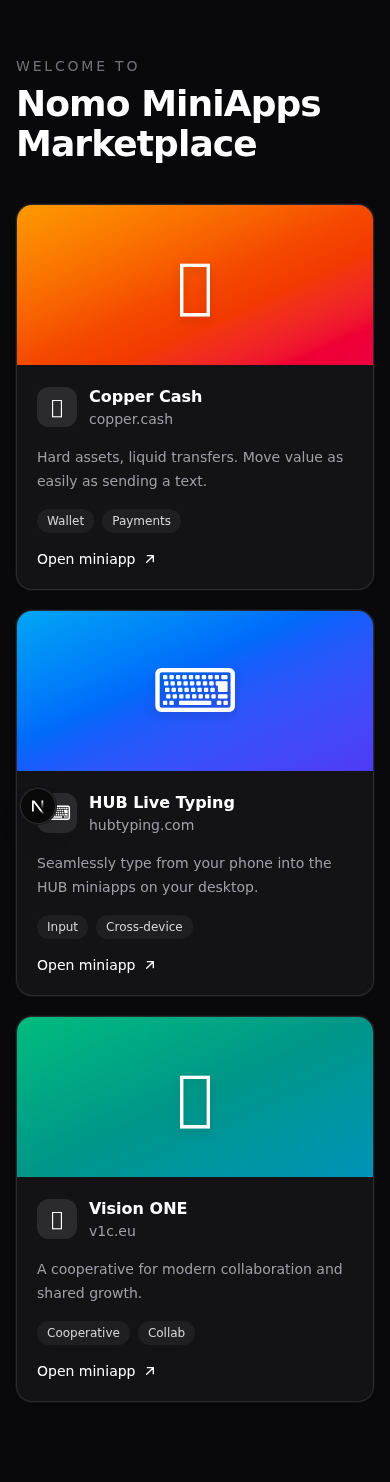
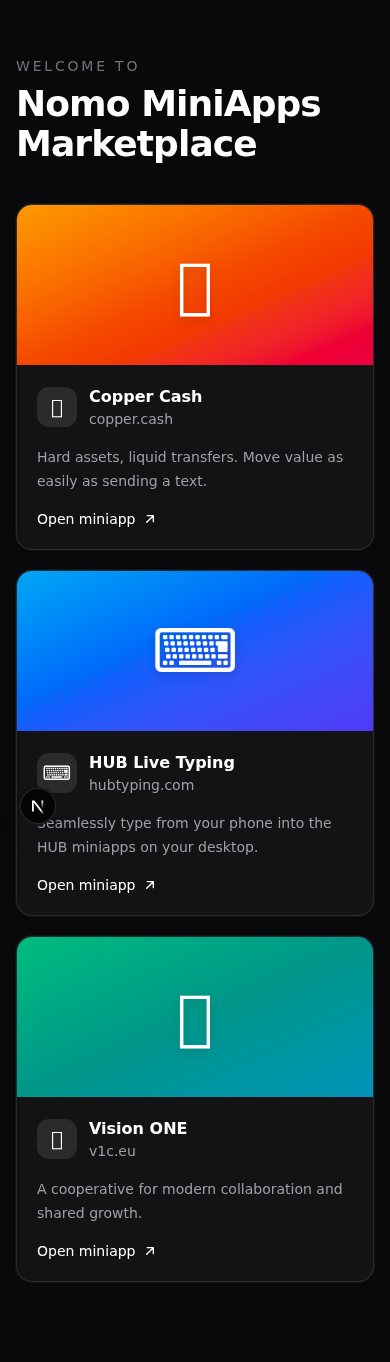
Drop tag chips from miniapp cards, note upstream PR target

Changed region(s): [[0.0308, 0.0308, 0.9538, 0.6784], [0.0308, 0.7093, 0.9538, 0.9251], [0.7385, 0.3084, 0.8923, 0.3392]]

diff --git a/src/data/miniapps.ts b/src/data/miniapps.ts
@@ -14,7 +14,6 @@ export interface Miniapp {
   icon: string;
   /** Tailwind gradient classes used for the card cover. */
   cover: string;
-  tags: string[];
   /** ISO date, used by the "Newest" sort. */
   publishedAt: string;
   /** Higher is more popular, used by the "Popularity" sort. */
@@ -30,7 +29,6 @@ export const MINIAPPS: Miniapp[] = [
     slogan: "Hard assets, liquid transfers. Move value as easily as sending a text.",
     icon: "🪙",
     cover: "from-amber-500 via-orange-600 to-rose-600",
-    tags: ["Wallet", "Payments"],
     publishedAt: "2026-08-14",
     popularity: 92,
   },
@@ -42,7 +40,6 @@ export const MINIAPPS: Miniapp[] = [
     slogan: "Seamlessly type from your phone into the HUB miniapps on your desktop.",
     icon: "⌨",
     cover: "from-sky-500 via-blue-600 to-indigo-600",
-    tags: ["Input", "Cross-device"],
     publishedAt: "2026-09-02",
     popularity: 74,
   },
@@ -54,7 +51,6 @@ export const MINIAPPS: Miniapp[] = [
     slogan: "A cooperative for modern collaboration and shared growth.",
     icon: "🔭",
     cover: "from-emerald-500 via-teal-600 to-cyan-600",
-    tags: ["Cooperative", "Collab"],
     publishedAt: "2026-07-21",
     popularity: 61,
   },

diff --git a/src/components/miniapp-card.tsx b/src/components/miniapp-card.tsx
@@ -34,19 +34,11 @@ export function MiniappCard({ app }: MiniappCardProps) {
 
         <p className="text-sm leading-6 text-zinc-400">{app.slogan}</p>
 
-        <div className="mt-auto flex flex-wrap gap-2">
-          {app.tags.map((tag) => (
-            <span key={tag} className="rounded-full bg-white/5 px-2.5 py-1 text-xs text-zinc-300">
-              {tag}
-            </span>
-          ))}
-        </div>
-
         <a
           href={app.url}
           target="_blank"
           rel="noopener noreferrer"
-          className="inline-flex items-center gap-1.5 text-sm font-medium text-white transition-colors hover:text-zinc-300"
+          className="mt-auto inline-flex items-center gap-1.5 text-sm font-medium text-white transition-colors hover:text-zinc-300"
         >
           Open miniapp
           <ArrowUpRightIcon className="h-4 w-4" />

diff --git a/AGENTS.md b/AGENTS.md
@@ -2,6 +2,10 @@
 
 https://nomomarket.netlify.app/
 
+## Pull Requests
+
+Always open PRs towards the upstream repo (`fkirc/openhands-workshop`), never towards the fork.
+
 ## Development
 
 - Clone the repo
